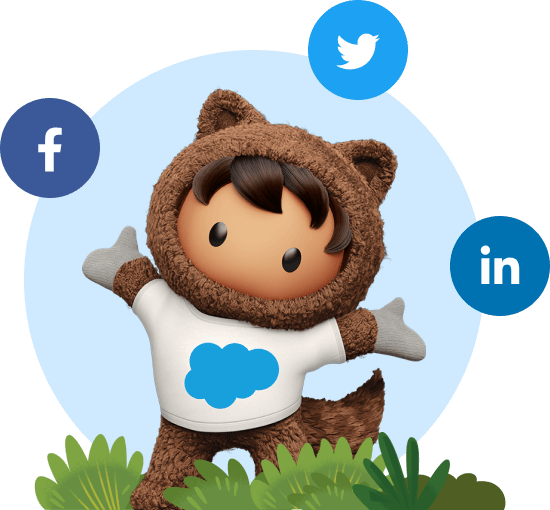
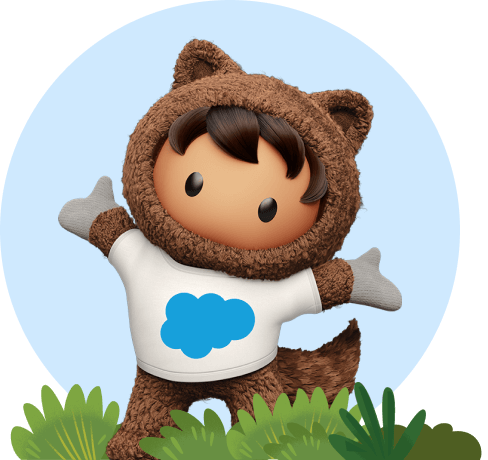
Work on Social for salesforce trees visual update;

diff --git a/src/tenants/salesforce/Home/components/Social.tsx b/src/tenants/salesforce/Home/components/Social.tsx
@@ -7,9 +7,13 @@ export default function Social() {
       <div className={gridStyles.fluidContainer}>
         <div className={gridStyles.gridRow}>
           <div className={gridStyles.col12}>
-            <img src="/tenants/salesforce/images/astro-social.png" alt="" />
             <h3>Invite a friend to join the trillion tree movement.</h3>
-            <button>Share Now</button>
+            <div className={styles.socialContent}>
+              <img src="/tenants/salesforce/images/astro-social.png" alt="" />
+              <a href="" className={styles.socialFacebook}><img src="/tenants/salesforce/images/facebook.png" alt=""/></a>
+              <a href="" className={styles.socialLinkedin}><img src="/tenants/salesforce/images/linkedin.png" alt=""/></a>
+              <a href="" className={styles.socialTwitter}><img src="/tenants/salesforce/images/twitter.png" alt=""/></a>
+            </div>
           </div>
         </div>
       </div>

diff --git a/src/tenants/salesforce/Home/styles/Social.module.scss b/src/tenants/salesforce/Home/styles/Social.module.scss
@@ -24,7 +24,7 @@
   img {
     max-width: 100%;
     height: auto;
-    max-height: 255px;
+    max-height: 214px;
     margin-bottom: 25px;
   }
   button {
@@ -42,3 +42,40 @@
   }
 }
 
+.socialContent {
+  position: relative;
+  display: inline-block;
+  margin-top: 40px;
+}
+
+.socialFacebook,
+.socialTwitter,
+.socialLinkedin {
+  display: block;
+  width: 50px;
+  height: 50px;
+  position: absolute;
+  transition: transform .2s ease-in-out;
+  &:hover {
+    transform: scale(1.2);
+  }
+  img {
+    max-width: 100%;
+    height: auto;
+  }
+}
+
+.socialFacebook {
+  top: 20px;
+  left: -16px;
+}
+
+.socialTwitter {
+  top: -25px;
+  left: 130px;
+}
+
+.socialLinkedin {
+  top: 70px;
+  left: 200px;
+}
